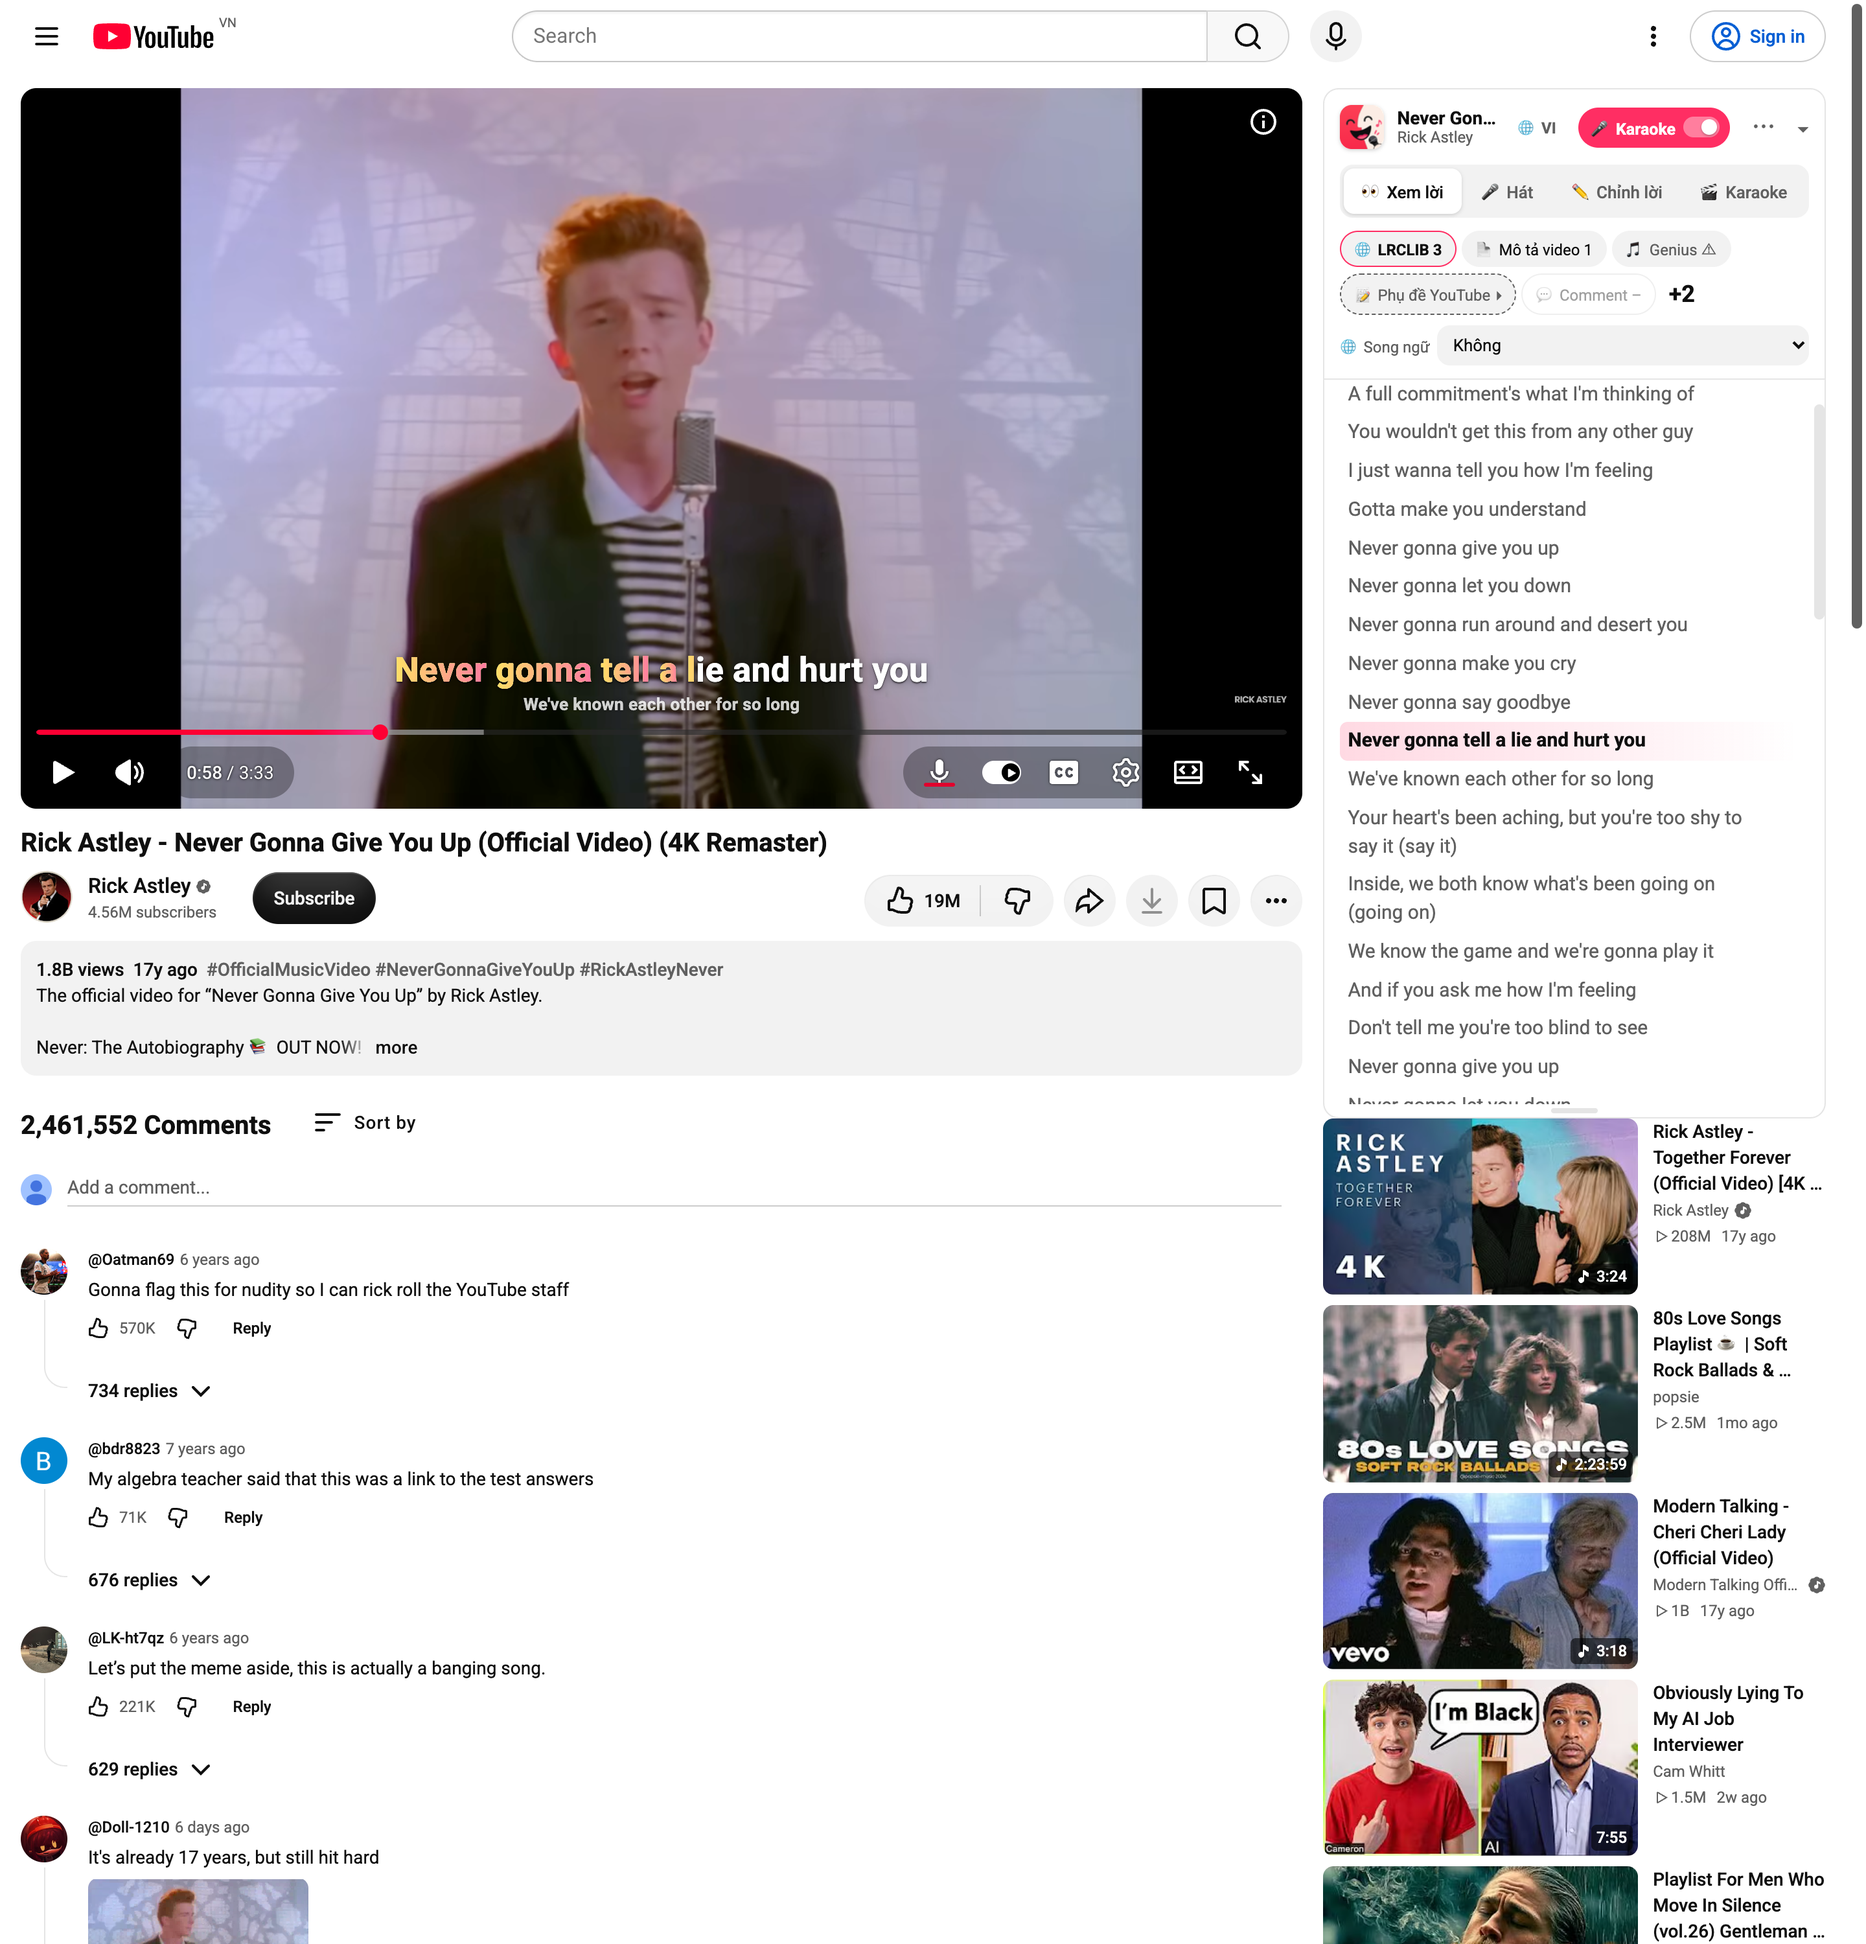
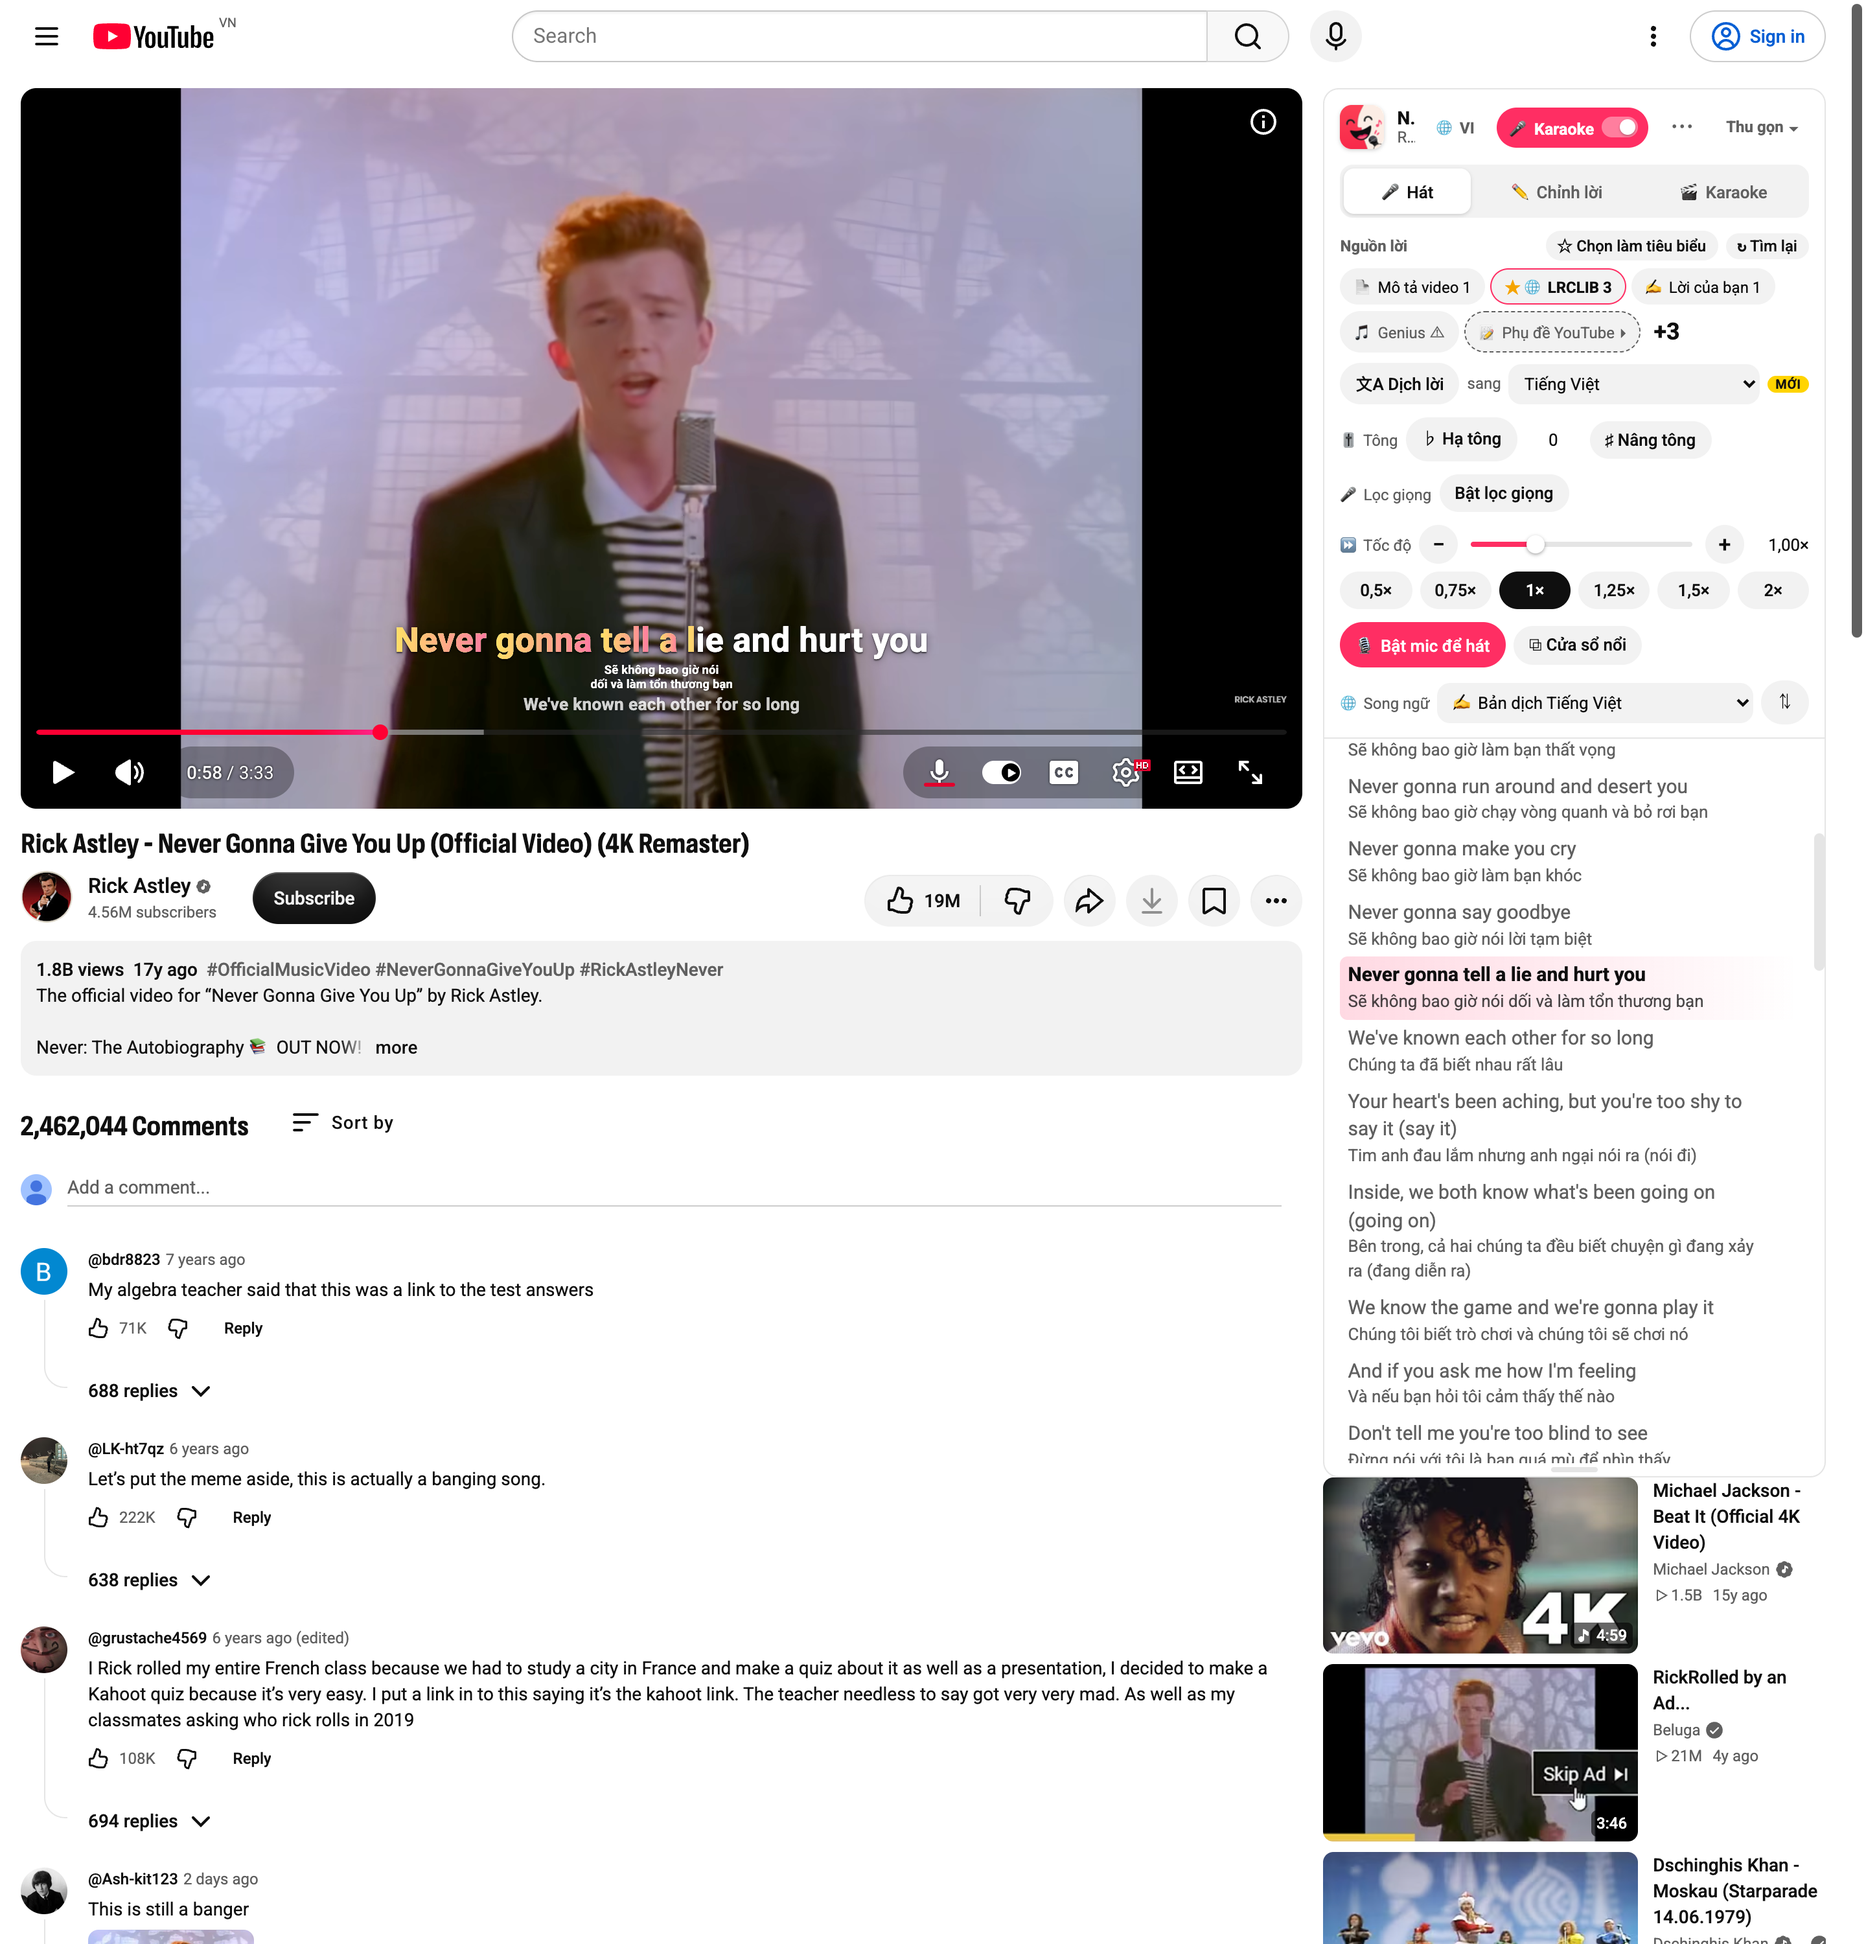
Store 0.28.0: screenshots retaken on the new panel (🎤 Hát with 文A Dịch lời, 🎨 in Chỉnh lời), hero cards (3 modes, Translate); listing describes translation, speed, compare, read text in the video; privacy policy and permission notes cover Google Translate and the OCR language data from jsDelivr

diff --git a/store/mockups.html b/store/mockups.html
@@ -64,7 +64,7 @@
     vi: {
       heroH: 'Lời bài hát <em>ngay trên YouTube</em>',
       heroS: 'Mở video nhạc là có lời: dòng đang hát sáng lên và tự cuộn, karaoke chạy ngay trên video.',
-      heroC: [['🔎 Tự tìm lời', 'Mô tả, comment, LRCLIB, Hợp âm chuẩn, Genius, phụ đề'], ['🎤 Karaoke trên video', 'Chữ đổi màu theo nhịp hát, bật tắt ngay trên thanh điều khiển'], ['🧭 4 chế độ gọn', 'Xem lời · Hát · Chỉnh lời · Karaoke'], ['🌐 12 ngôn ngữ', 'Đổi ngay trên đầu panel']],
+      heroC: [['🔎 Tự tìm lời', 'Mô tả, comment, LRCLIB, Hợp âm chuẩn, Genius, phụ đề'], ['🎤 Karaoke trên video', 'Chữ đổi màu theo nhịp hát, bật tắt ngay trên thanh điều khiển'], ['🧭 3 chế độ gọn', 'Hát · Chỉnh lời · Karaoke'], ['文A Dịch lời', '13 ngôn ngữ, giữ đúng nhịp từng dòng']],
       stylesH: '9 kiểu <em>phụ đề karaoke</em>',
       stylesS: 'Chọn một kiểu có sẵn, bấm 🎲 thử kiểu ngẫu nhiên, hoặc tự chỉnh rồi lưu thành preset. Ghim 📌 riêng cho từng kênh.',
       studioH: 'Kiểu chữ <em>theo ý bạn</em>',
@@ -72,7 +72,7 @@
       studioC: ['🎲 Ngẫu nhiên', '↺ Mặc định', '💾 Lưu preset', 'Phông · Màu · Viền · Nền', 'Chuyển màu · Phát sáng', '📌 Theo kênh'],
       karaH: 'Hát theo <em>từng chữ</em> trên video',
       karaS: 'Chữ đổi màu đúng lúc ca sĩ hát, cả khi xem toàn màn hình, chế độ rạp và YouTube Shorts.',
-      karaC: ['Toàn màn hình', 'Shorts', 'Cửa sổ nổi ⧉', 'Song ngữ 🌐', 'Phiên âm Hàn · Nhật · Trung 🔤'],
+      karaC: ['Toàn màn hình', 'Shorts', 'Cửa sổ nổi ⧉', 'Dịch lời 文A', 'Phiên âm Hàn · Nhật · Trung 🔤'],
       soundH: 'Hát trên <em>bài gốc</em>',
       soundS: 'Không cần bản karaoke: đổi tông và lọc giọng ca sĩ ngay trong trình duyệt.',
       soundC: [['🎚 Đổi tông', 'Nâng, hạ nửa cung mà không đổi tốc độ. Nhớ riêng cho từng video.'], ['🎤 Lọc giọng', 'Giảm rõ giọng ca sĩ, giữ lại tiếng đàn, trống và bass. Kéo thanh để chỉnh mức.'], ['🎙 Chấm điểm', 'Hát vào micro, mỗi dòng có điểm: đủ lời, đúng nốt.'], ['⬇ Xuất LRC · SRT · ASS', 'Phụ đề karaoke đúng kiểu chữ, ghép cứng vào video của bạn.']],
@@ -84,7 +84,7 @@
     en: {
       heroH: 'Song lyrics <em>right on YouTube</em>',
       heroS: 'Open a music video and the lyrics are there: the sung line lights up and scrolls, with karaoke on the video.',
-      heroC: [['🔎 Finds lyrics', 'Description, comments, LRCLIB, Genius, captions'], ['🎤 Karaoke on video', 'Words light up as they are sung, one click on the player'], ['🧭 Four simple modes', 'Lyrics · Sing · Edit · Karaoke'], ['🌐 12 languages', 'Switch right at the top of the panel']],
+      heroC: [['🔎 Finds lyrics', 'Description, comments, LRCLIB, Genius, captions'], ['🎤 Karaoke on video', 'Words light up as they are sung, one click on the player'], ['🧭 Three simple modes', 'Sing · Edit · Karaoke'], ['文A Translate lyrics', '13 languages, each line kept in time']],
       stylesH: '9 <em>karaoke subtitle</em> styles',
       stylesS: 'Pick a built-in style, roll 🎲 for a random one, or tune it and save it as a preset. Pin 📌 one per channel.',
       studioH: 'Your own <em>subtitle style</em>',
@@ -92,7 +92,7 @@
       studioC: ['🎲 Random', '↺ Default', '💾 Save preset', 'Font · Colour · Outline · Background', 'Gradient · Glow', '📌 Per channel'],
       karaH: 'Sing along <em>word by word</em>',
       karaS: 'Words change colour right as they are sung, in full screen, theater mode and on YouTube Shorts.',
-      karaC: ['Full screen', 'Shorts', 'Floating window ⧉', 'Translations 🌐', 'Korean · Japanese · Chinese romanization 🔤'],
+      karaC: ['Full screen', 'Shorts', 'Floating window ⧉', 'Translations 文A', 'Korean · Japanese · Chinese romanization 🔤'],
       soundH: 'Sing over <em>the original</em>',
       soundS: 'No karaoke version needed: change the key and cut the vocals right in your browser.',
       soundC: [['🎚 Change the key', 'Semitones up or down at the same speed, remembered per video.'], ['🎤 Vocal cut', 'Turns the singer well down, keeps the band, drums and bass. Slide to set how much.'], ['🎙 Scoring', 'Sing into your mic and get a mark for every line.'], ['⬇ Export LRC · SRT · ASS', 'Styled karaoke subtitles to burn into your own video.']],

diff --git a/PRIVACY.md b/PRIVACY.md
@@ -1,6 +1,6 @@
 # Chính sách quyền riêng tư · Privacy policy
 
-*Better Karaoke — cập nhật / updated 2026-11-03*
+*Better Karaoke — cập nhật / updated 2026-11-12*
 
 ## Tiếng Việt
 
@@ -14,7 +14,9 @@ Better Karaoke **không thu thập, không bán và không gửi dữ liệu cá
 
 **Gửi lời lên LRCLIB** (chỉ khi bạn bấm "☁ Gửi lên LRCLIB", kiểm tra lại, tích ô xác nhận và bấm gửi): tên bài, ca sĩ, album, thời lượng và lời bạn đã canh được đăng **công khai** lên LRCLIB theo [điều khoản của LRCLIB](https://lrclib.net). Không gửi kèm thông tin nào về bạn.
 
-**🔠 Đọc chữ trên video**: các khung hình được đọc chữ ngay trên máy (Tesseract chạy trong extension), không gửi đi đâu.
+**文A Dịch lời** (chỉ khi bạn bấm nút): các dòng lời đang hiện được gửi tới **Google Dịch** (`translate.googleapis.com`) để dịch, không kèm thông tin nào khác về bạn hay video. Bản dịch được lưu trên máy bạn.
+
+**🔠 Đọc chữ trên video**: các khung hình được đọc chữ ngay trên máy (Tesseract chạy trong extension), không gửi đi đâu. Với video tiếng Nhật, Hàn, Trung hoặc Thái, extension tải một lần file dữ liệu ngôn ngữ tương ứng từ `cdn.jsdelivr.net` rồi giữ lại trên máy; yêu cầu tải này không kèm dữ liệu nào của bạn.
 
 **Micro** (chỉ khi bạn bấm 🎙 Chấm điểm và cho phép): âm thanh được phân tích ngay trên máy để tìm nốt bạn hát, không ghi lại, không lưu, không gửi đi đâu. Đóng cửa sổ 🎙 là micro tắt.
 
@@ -32,7 +34,9 @@ Better Karaoke **does not collect, sell or send your personal data to its develo
 
 **Sending lyrics to LRCLIB** (only when you click "☁ Send to LRCLIB", review the page, tick the confirmation box and press send): the title, artist, album, length and the lyrics you timed are published **publicly** on LRCLIB under [LRCLIB's terms](https://lrclib.net). Nothing about you is sent with them.
 
-**🔠 Read text in the video**: frames are read on your device (Tesseract runs inside the extension) and are not sent anywhere.
+**文A Translate** (only when you press the button): the lyric lines shown are sent to **Google Translate** (`translate.googleapis.com`) to be translated, with nothing else about you or the video. The translation is stored on your device.
+
+**🔠 Read text in the video**: frames are read on your device (Tesseract runs inside the extension) and are not sent anywhere. For Japanese, Korean, Chinese or Thai videos the extension downloads the matching language data file once from `cdn.jsdelivr.net` and keeps it on your device; that download carries none of your data.
 
 **Microphone** (only when you click 🎙 Score and allow it): the sound is analysed on your device to find the note you sing; it is not recorded, stored or sent anywhere. Closing the 🎙 window turns the microphone off.
 
